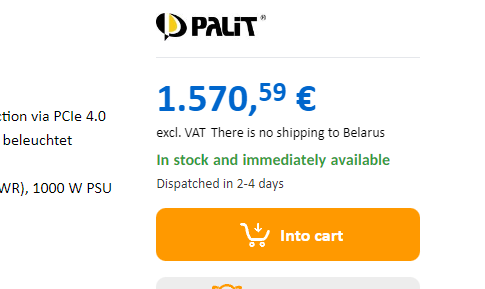
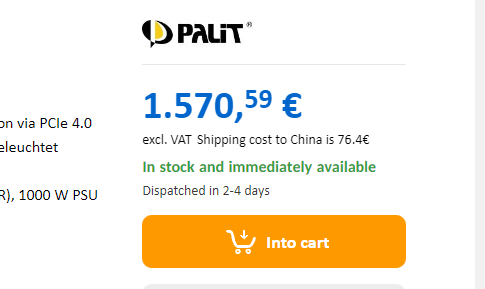
updated README.md

diff --git a/README.md b/README.md
@@ -18,6 +18,10 @@ Simple google chrome extension to reveal shipping prices for the website [comput
 
 ![Extension preview image](screenshots/sc-3.png)
 
+- Countries with no shipping
+
+![Extension preview image](screenshots/sc-4.png)
+
 ## Simple Google Chrome extension
 
 You can see the shipping price for the country you select in the products list page and in the product page without having to press anything.
